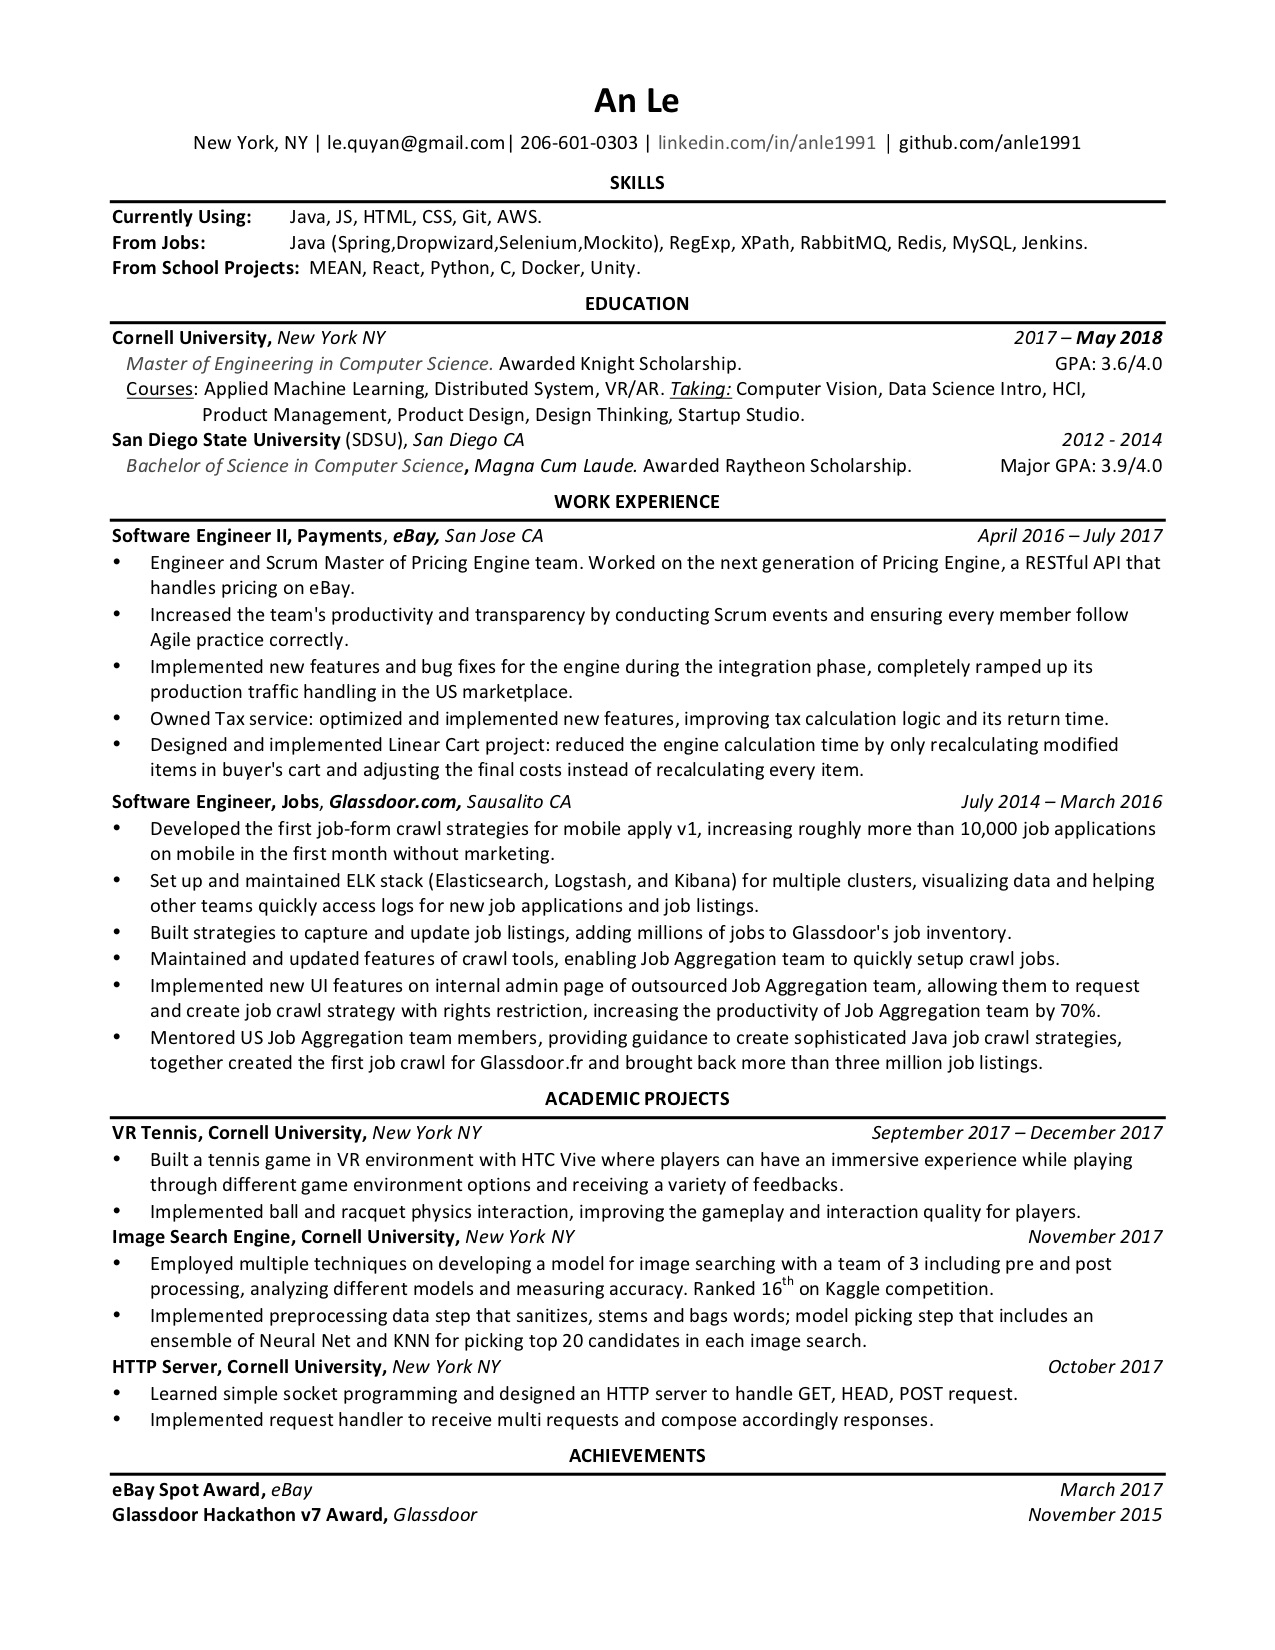
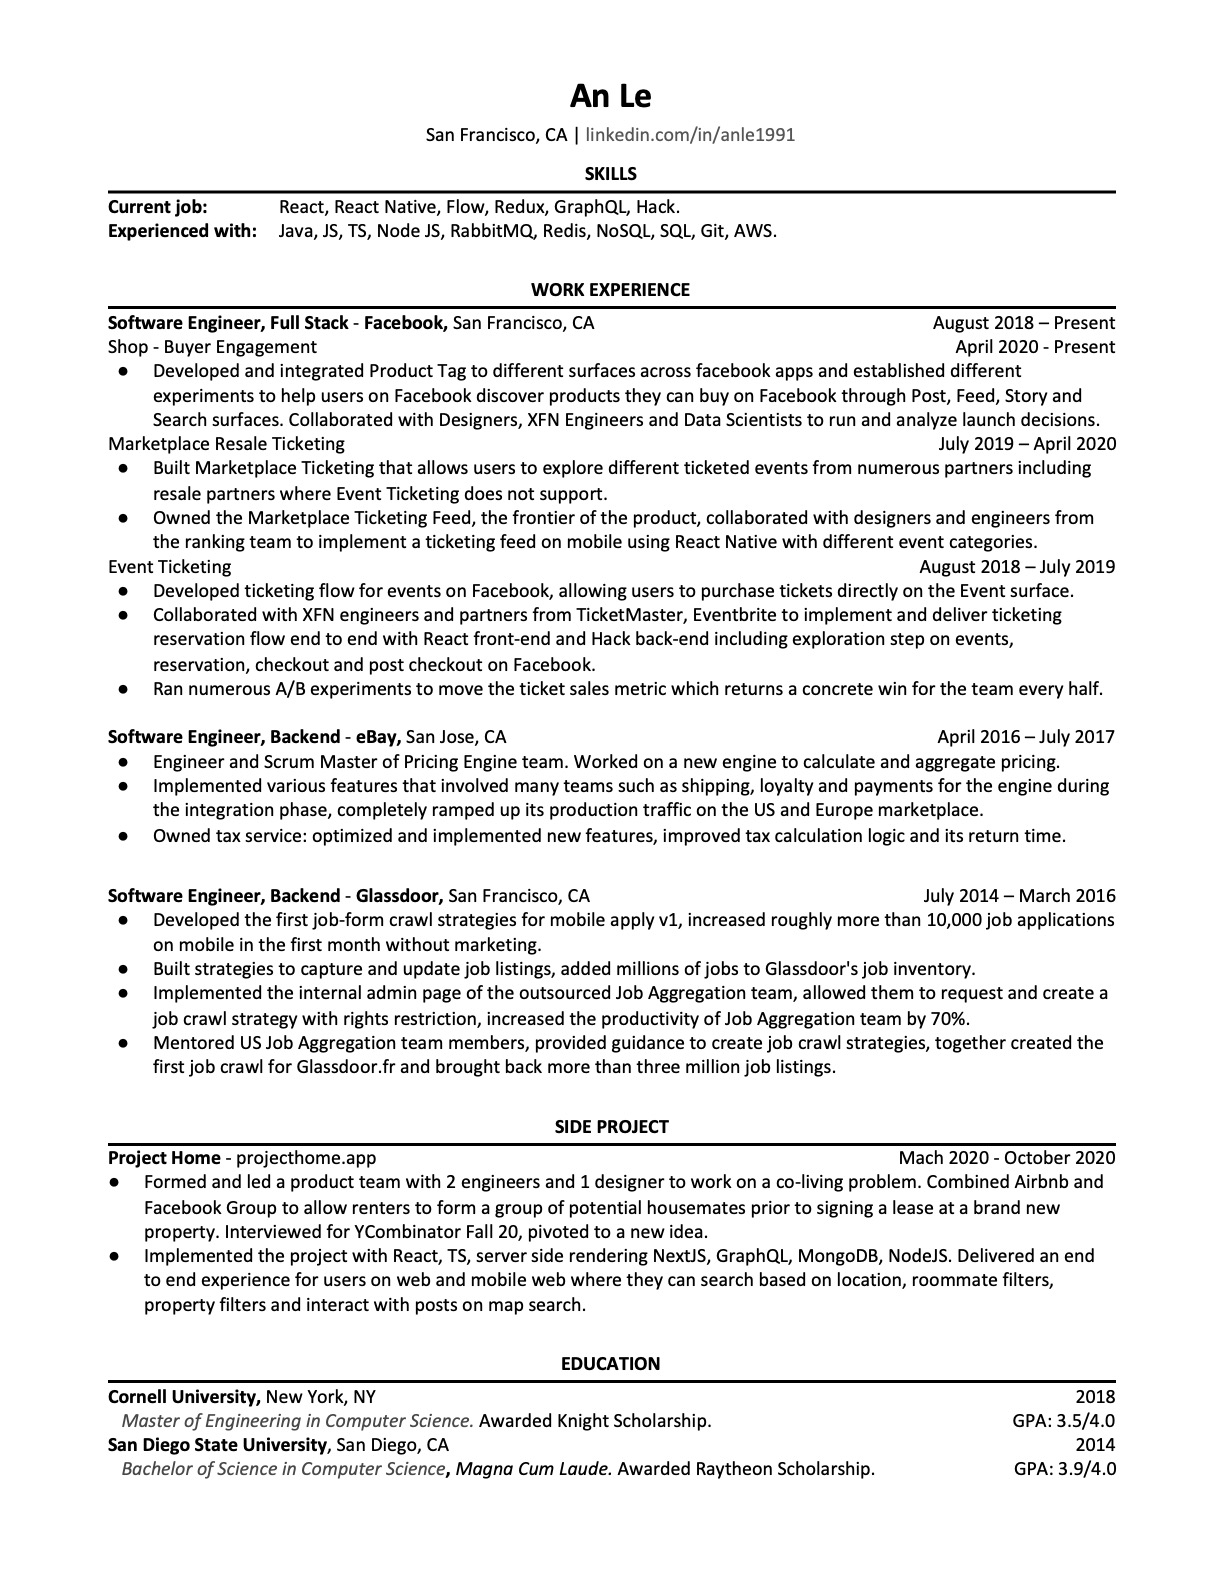
2/2021

Changed region(s): [[0.0931, 0.0619, 0.9314, 0.928]]

diff --git a/index.html b/index.html
@@ -97,12 +97,12 @@
             </div>
             <div class="row">
                 <div class="col-lg-4 col-lg-offset-2">
-                    <p>I graduated in 2014 with a BS degree in Computer Science. I then worked in the industry for 3 years. Mostly I worked on back end logic, however, my ability is not limited to just that.</p>
+                    <p>I graduated from Cornell in 2018. Since then, I have been working at Facebook as a Full Stack engineer. I worked on both web and mobile using React and React Native.</p>
+                    <p>I like working on E-Commerce and Social Media products in general.</p>
                 </div>
                 <div class="col-lg-4">
-                    <p>I spent my free time exploring new tech stacks and applied the knowledge successfully to my full time job whenever needed.</p>
-
-                    <p>Recently, I have decided to go back to school not only to extend my stay in the US but also to explore ML and VR for a year.</p>
+                    <p>My ultimate goal is to have my own software company in Vietnam :) My most recent side project is <a href="https://projecthome.app/" target="blank">projecthome.app</a>. Check it out!</p>
+                    <p>I barely update this site unless I'm looking for a new opportunity. If you want to know what I'm up to, mesage me on LinkedIn 🤣</p>
                 </div>
             </div>
         </div>
@@ -118,6 +118,17 @@
                 </div>
             </div>
             <div class="row">
+                <div class="col-sm-4 portfolio-item">
+                    <a href="#portfolioModal9" class="portfolio-link" data-toggle="modal">
+                        <div class="caption">
+                            <div class="caption-content">
+                                <i class="fa fa-search-plus fa-3x"></i>
+                            </div>
+                        </div>
+                        <img src="img/portfolio/projhome.png" class="img-responsive crop" alt="Project Home App">
+                    </a>
+                </div>
+
               <div class="col-sm-4 portfolio-item">
                   <a href="#portfolioModal9" class="portfolio-link" data-toggle="modal">
                       <div class="caption">
@@ -298,6 +309,44 @@
     </div>
 
     <!-- Portfolio Modals -->
+    <!--------Project Home App--->
+    <div class="portfolio-modal modal fade" id="portfolioModal9" tabindex="-1" role="dialog" aria-hidden="true">
+        <div class="modal-content">
+            <div class="close-modal" data-dismiss="modal">
+                <div class="lr">
+                    <div class="rl">
+                    </div>
+                </div>
+            </div>
+            <div class="container">
+                <div class="row">
+                    <div class="col-lg-8 col-lg-offset-2">
+                        <div class="modal-body">
+                            <h2>Project Home App</h2>
+                            <hr class="star-primary">
+                            <div class="modal-text">
+                            <p>
+                                I formed a team of 2 engineers including me and 1 designer to work on Roommate Match problem together.
+                                <br>
+                                <br>
+                                We combined Airbnb long term and Facebook Group together to allow renters find other potential renters before they sign a lease. Many times I look at a luxury apartment, I wish I can find a roommate to share the place before signing the lease.
+                                <br>
+                                <br />
+                                Finding roommates after signing the lease is an option, however it brings much more risk and usually those potential roommates also gave up and went to a cheaper place.
+                                <br>
+                                <br />
+                                <br>
+                                <a href="https://projecthome.app/" target="blank"> Check out Project Home App here!</a>
+                            </p>
+                            </div>
+                            <button type="button" class="btn btn-default" data-dismiss="modal"><i class="fa fa-times"></i> Close</button>
+                        </div>
+                    </div>
+                </div>
+            </div>
+        </div>
+    </div>
+
     <!--------VR Demo--->
     <div class="portfolio-modal modal fade" id="portfolioModal9" tabindex="-1" role="dialog" aria-hidden="true">
         <div class="modal-content">
